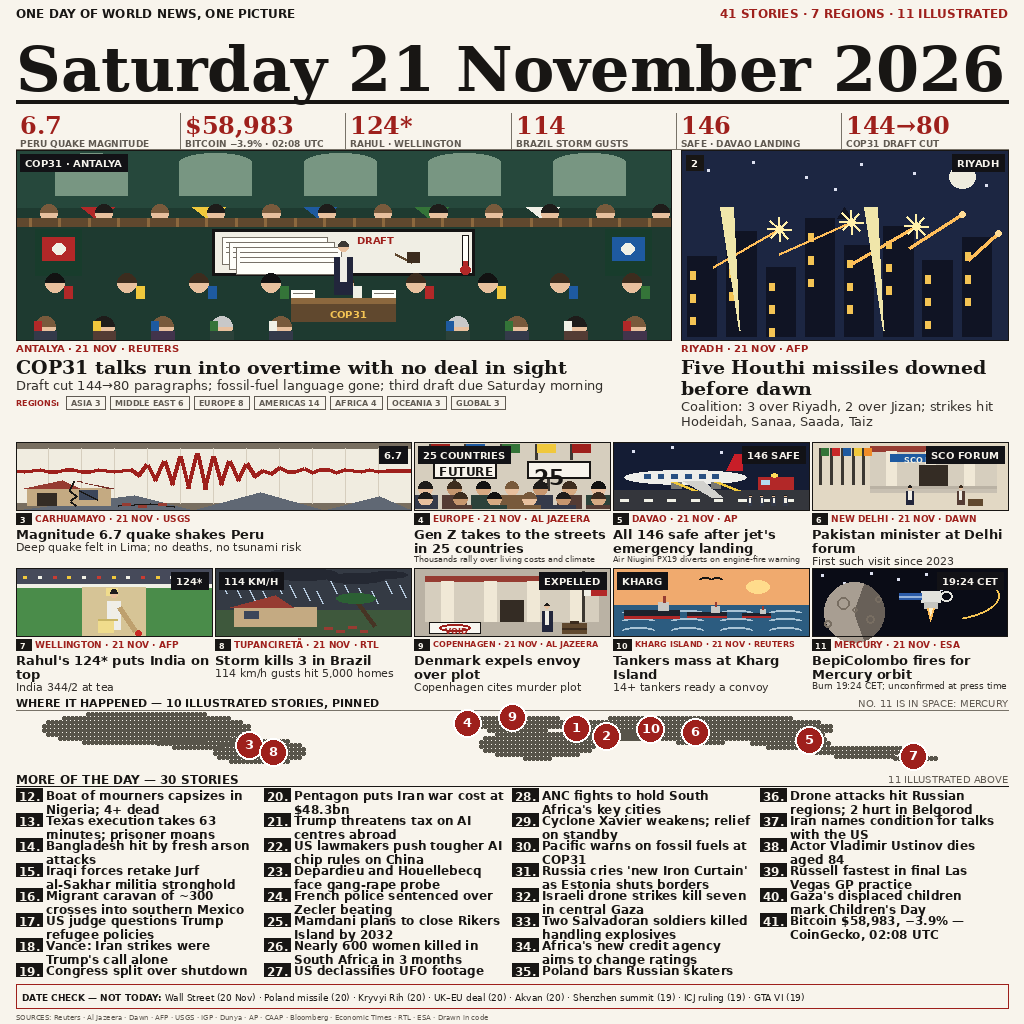
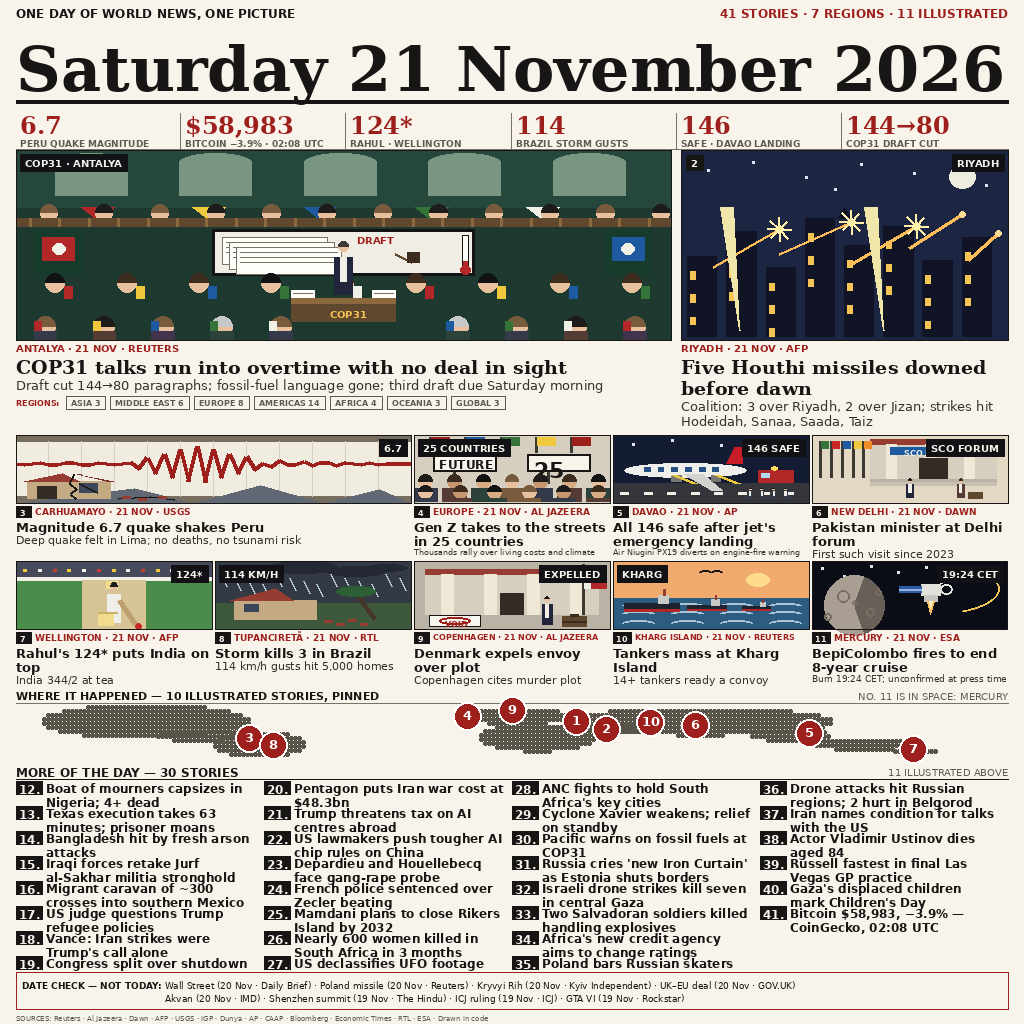
news-image-20261121: round 5 — 8-year cruise restored on BepiColombo card, DATE CHECK full dates + source tags

Changed region(s): [[0.0, 0.4062, 1.0, 1.0]]

diff --git a/engine/page.py b/engine/page.py
@@ -3,8 +3,8 @@
 The page is a stack of horizontal bands whose heights sum to the
 1024 px canvas::
 
-    kicker 20 + date 88 + figure strip 42 + hero row 292
-    + cards 252 + map 74 + index 216 + date check 26 + footer 14 = 1024
+    kicker 20 + date 88 + figure strip 42 + hero row 285
+    + cards 252 + map 74 + index 211 + date check 39 + footer 13 = 1024
 
 The map band is funded by trimming band heights (index rows,
 DATE CHECK to one line, hero/cards/kicker/strip/footer trims) —
@@ -31,18 +31,18 @@ RIGHT = MARGIN + CONTENT
 KICKER_H = 20
 DATE_H = 88
 STRIP_H = 42
-HERO_H = 292
+HERO_H = 285
 CARDS_H = 252
 MAP_H = 74
-INDEX_H = 216
-CHECK_H = 26
-FOOTER_H = 14
+INDEX_H = 211
+CHECK_H = 39
+FOOTER_H = 13
 
 # Index grid: four columns; a column holds eight briefs.  The
 # grid starts INDEX_TOP px into the band and rows are INDEX_ROW_H
 # apart; a brief's lines advance INDEX_LEAD px each.  The deepest
 # brief (row 7, one line) bottoms at 20 + 7*25 + 14 = 209 px,
-# inside the 216 px band — the gate measures this per brief.
+# inside the 211 px band — the gate measures this per brief.
 INDEX_ROWS = 8
 INDEX_ROW_H = 25
 INDEX_TOP = 20
@@ -72,19 +72,31 @@ STRIP = [
 ]
 
 CHECK_LEAD = "DATE CHECK — NOT TODAY: "
-# One line, abbreviated but naming all eight exclusions.  BepiColombo
-# left this list in round 2: ESA + Wikipedia date the Mercury orbit
-# insertion to 21 Nov 2026, so it is a story on this page, not an
-# exclusion.  The Shenzhen summit (Thu 19 Nov) takes its place.
+# Two lines naming all eight exclusions.  BepiColombo left this
+# list in round 2: ESA + Wikipedia date the Mercury orbit insertion
+# to 21 Nov 2026, so it is a story on this page, not an exclusion.
+# The Shenzhen summit (Thu 19 Nov) takes its place.
 # Round 4: the Poland missile is dated 20 Nov (the Kh-101 crashed
 # during the 19→20 Nov barrage), and the Kryvyi Rih double-tap
 # strike — late on Fri 20 Nov — joins the list as an exclusion.
+# Round 5: uniform FULL dates plus one source tag per exclusion,
+# split across the two lines (the full one-line version measures
+# 1,158.9 px at 9 pt against an 836.5 px body budget, so it cannot
+# fit on one line); CHECK_L2, already gate-checked for width, is
+# now drawn as the second line.  Tags come from this edition's own
+# dossiers: Daily Brief (Wall Street first report), Reuters
+# (Poland), Kyiv Independent (Kryvyi Rih wire), GOV.UK (UK–EU
+# deal), IMD (Akvan authority), The Hindu (Shenzhen trilateral),
+# ICJ (Press Release 2026/27), Rockstar (GTA VI publisher).
 CHECK_L1 = (
-    "Wall Street (20 Nov) · Poland missile (20) · "
-    "Kryvyi Rih (20) · UK–EU deal (20) · Akvan (20) · "
-    "Shenzhen summit (19) · ICJ ruling (19) · GTA VI (19)"
+    "Wall Street (20 Nov · Daily Brief) · Poland missile "
+    "(20 Nov · Reuters) · Kryvyi Rih (20 Nov · Kyiv Independent) · "
+    "UK–EU deal (20 Nov · GOV.UK)"
 )
-CHECK_L2 = ""
+CHECK_L2 = (
+    "Akvan (20 Nov · IMD) · Shenzhen summit (19 Nov · The Hindu) · "
+    "ICJ ruling (19 Nov · ICJ) · GTA VI (19 Nov · Rockstar)"
+)
 
 
 def space_note(data):
@@ -307,6 +319,8 @@ def _date_check(draw, y):
     lead_w = text_w(draw, CHECK_LEAD.rstrip(), lead)
     draw.text((tx, y + 8), CHECK_LEAD, font=lead, fill=C.INK)
     draw.text((tx + int(lead_w) + 4, y + 8), CHECK_L1, font=body,
+              fill=C.INK)
+    draw.text((tx + int(lead_w) + 4, y + 21), CHECK_L2, font=body,
               fill=C.INK)
 
 
